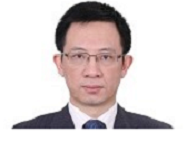
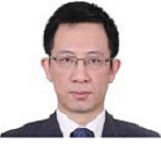
院士图像

diff --git a/css/nasac_fmac.css b/css/nasac_fmac.css
@@ -628,7 +628,7 @@ top:0
 }
 
 .photo5{
-	background-image:url(../images/photo/5.jpg)
+	background-image:url(../images/photo/55.jpg)
 }
 
 .photo6{
